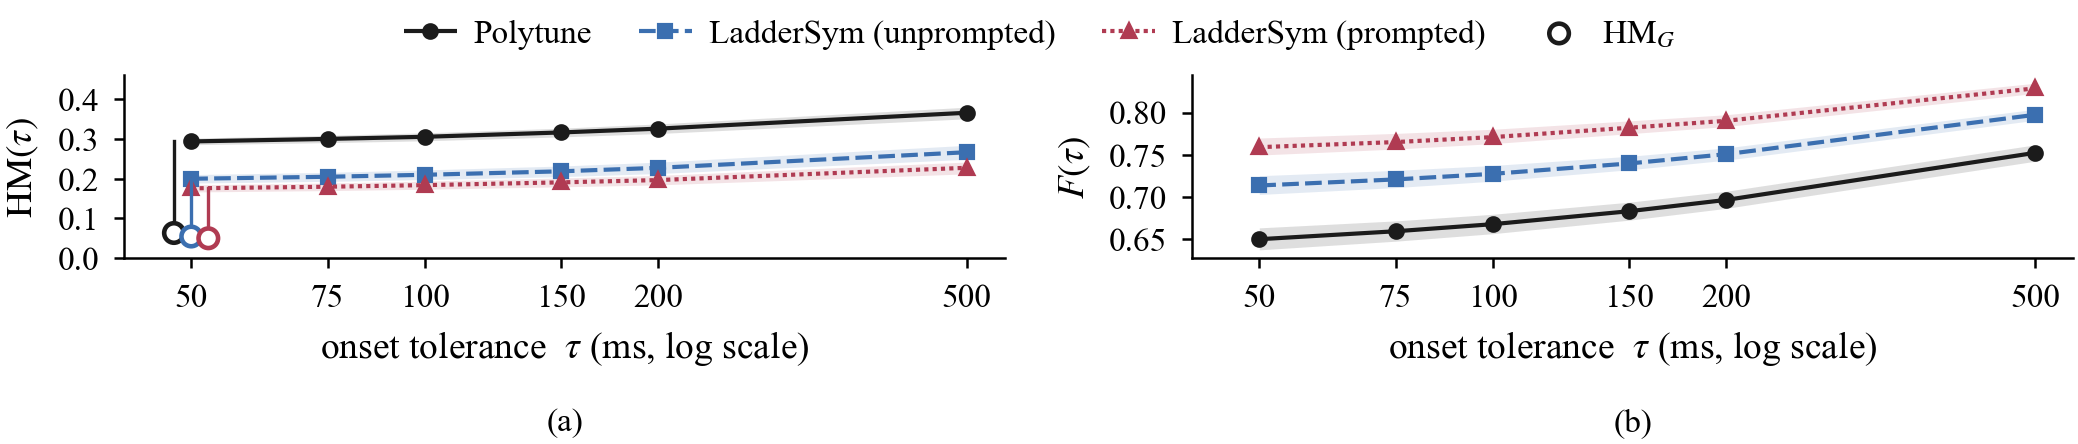
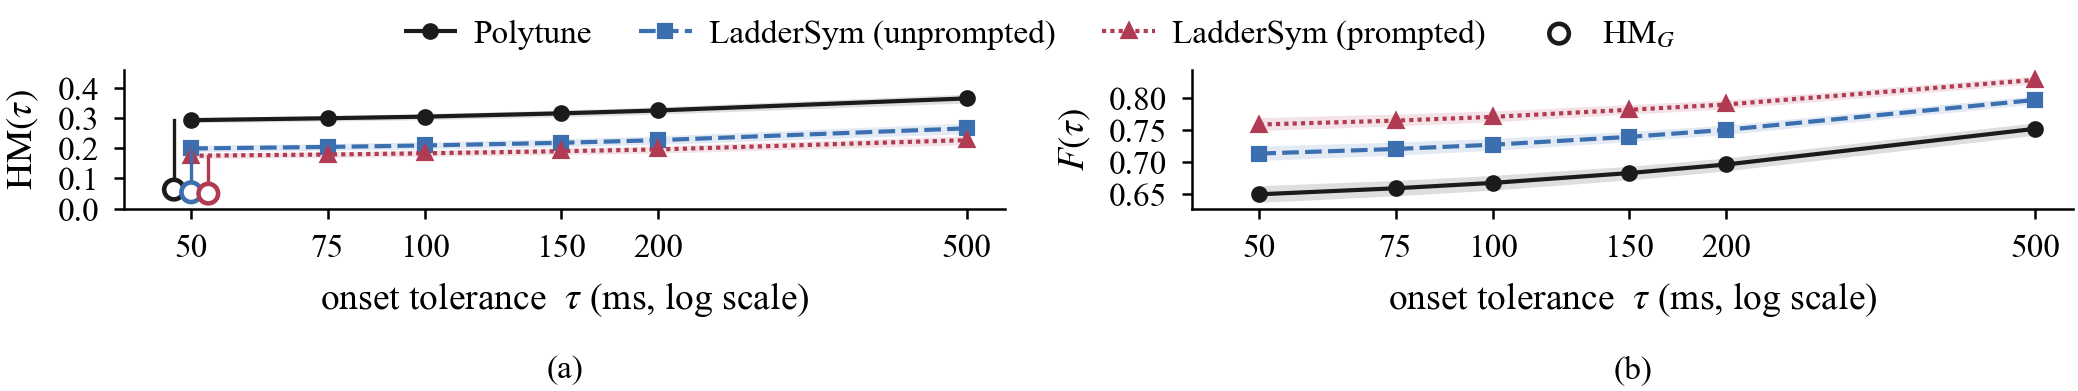
figs + gate: Fig. 2 height, Table I/II captions, gate pins for the round-2 letter
Mirrors the paper's round-2 clarity pass: Fig. 2 at 1.34 in, Table I's
caption names what F1-bar averages, Table II's caption drops the
redundant per-piece note, and the shipped-numbers gate pins follow the
rephrased letter/supplement sentences (prose pins skip when proposal/ is
absent). Oracle CSVs re-synced from the source tree. 92 public checks pass.

diff --git a/experiments/verify_shipped.py b/experiments/verify_shipped.py
@@ -651,10 +651,11 @@ def check_score_filter() -> None:
     hm_f = [r["rf"]["hm"] for r in e]; f_f = [r["rf"]["localization"]["f1"] for r in e]
     if not (hm_f[0] > hm_f[1] > hm_f[2] and f_f[0] < f_f[1] < f_f[2]):
         fail("filtered ordering differs from Table I's")
-    pin("EI drop shares", "removes $%d/%d/%d\\%%$, lifting" % tuple(round(x) for x in drop(ei)))
+    pin("EI drop shares", "removes $%d/%d/%d\\%%$ of missed claims, lifting" % tuple(round(x) for x in drop(ei)))
     pin("EI mean error F1 before/after", "from $%.3f/%.3f/%.3f$ to $%.3f/%.3f/%.3f$ and lowering"
         % (*[r["bs"]["_mean_error_f1"] for r in ei], *[r["fs"]["_mean_error_f1"] for r in ei]))
-    pin("EI filtered HM", "lowering $\\mathrm{HM}$ to $%.3f/%.3f/%.3f$." % tuple(r["rf"]["hm"] for r in ei))
+    pin("EI filtered HM", "lowering raw $\\mathrm{HM}$ from $%.3f/%.3f/%.3f$ to $%.3f/%.3f/%.3f$."
+        % (*[r["rb"]["hm"] for r in ei], *[r["rf"]["hm"] for r in ei]))
     gains = [r["fs"]["missed"]["f1"] - r["bs"]["missed"]["f1"] for r in e]
     pin("conclusion missed-F1 gain", "by $%.2f$ to $%.2f$" % (min(gains), max(gains)))
     pc = os.path.join(HERE, "results", "cluster", "score_filter_paired_ci.json")
@@ -698,7 +699,7 @@ def check_round17_supplement() -> None:
          % (pc[k1]["hm_g"][0], pc[k1]["hm_g"][1], pc[k2]["hm_g"][0], pc[k2]["hm_g"][1]))
     if not (pc[k1]["hm_g"][0] > 0 and pc[k2]["hm_g"][0] > 0):
         fail("paired HM_G intervals no longer exclude zero")
-    spin("dominance guard defined", "the dominance guard, which requires each predicted track's class mapping to be diagonal-dominant against the reference")
+    spin("dominance guard defined", "the dominance guard (a check that each output track carries its own class: the track's class mapping must be diagonal-dominant against the reference)")
     spin("null coverage sentence", "in every test, the observed exceeds all 200 rotations.")
 
 
@@ -928,7 +929,7 @@ def check_letter_prose() -> None:
               "%d{,}%03d/%d{,}%03d=%.3f" % (num_p // 1000, num_p % 1000,
                                             den_p // 1000, den_p % 1000, hm_t[0]))
     assert_in("HM after binning (LadderSym)",
-              "$%.3f$ and $%.3f$ for LadderSym unprompted and prompted" % (hm_t[1], hm_t[2]))
+              "LadderSym unprompted and prompted give $%.3f$ and $%.3f$" % (hm_t[1], hm_t[2]))
     assert_in("HM charging U", "gives $%.3f/%.3f/%.3f$" % tuple(chg))
     assert_in("span endpoints", "$[%.3f,\\,%.3f]$" % (hm_t[0], raw[0]))
     assert_in("unfounded share",
@@ -1054,7 +1055,9 @@ def check_letter_prose() -> None:
     disj = disj and (_iv[0][1] < _iv[2][0] or _iv[2][1] < _iv[0][0])
     if disj:
         ok("uk_ci: |U|/|K| intervals pairwise disjoint, points match adjudication")
-        assert_in_supp("|U|/|K| disjoint clause", "(per-piece intervals disjoint)")
+        assert_in_supp("|U|/|K| disjoint clause",
+                       "(per-piece $|U|/|K|$ intervals $[%.3f,\\,%.3f]/[%.3f,\\,%.3f]/[%.3f,\\,%.3f]$, disjoint)"
+                       % tuple(v for iv in _iv for v in iv))
     else:
         fail("uk_ci intervals no longer pairwise disjoint; prose claims they are")
 
@@ -1300,10 +1303,9 @@ def check_letter_prose() -> None:
     _cp = _load(os.path.join(HERE, "results", "cluster", "maestro_ei_collapse_precision.json"))
     site = [cvei[c]["wrong->wrong"]["manifest_genuine"] / _cp["merges_that_are_substitutions"] for c in ei_cfgs]
     assert_in("EI site-level recall", "i.e.\\ $%.2f/%.2f/%.2f$ of all planted sites" % tuple(site))
-    assert_in("collapse absorption in letter", "flipping the class of $10{,}317$ planted labels shows the collapse absorbing $1{,}112$ of them")
     assert_in("EI genuine contrast",
-              "deleted note in $%.3f/%.3f/%.3f$ of cases, i.e." % tuple(ww))
-    assert_in("EI dominant-cell genuine rate", "where no omitted note exists, the rate is $%.3f/%.3f/%.3f$" % tuple(ew))
+              "deleted note in $%.3f/%.3f/%.3f$ of their merged" % tuple(ww))
+    assert_in("EI dominant-cell genuine rate", "only $%.3f/%.3f/%.3f$ of merged events name one" % tuple(ew))
     hm50, loc50, err50, mc_all = [], [], [], True
     for c in ei_cfgs:
         d = _load(os.path.join(gei, c + "_shipped.json"))
@@ -1353,17 +1355,15 @@ def check_letter_prose() -> None:
     kei = ["A_polytune_maestro_ei", "B_laddersym_maestro_ei_unprompted", "B_laddersym_maestro_ei_prompted"]
     hg = [bei[k]["point"]["hm_g"] for k in kei]; hgc = [bei[k]["ci95"]["hm_g"] for k in kei]
     uf = [100 * bei[k]["point"]["unfounded"] for k in kei]; ufc = [[100 * x for x in bei[k]["ci95"]["unfounded"]] for k in kei]
-    assert_in("EI adjudicated HM_G", "gives $\\mathrm{HM}_G=%.3f/%.3f/%.3f$ there (intervals overlapping)" % tuple(hg))
+    assert_in("EI adjudicated HM_G", "gives $\\mathrm{HM}_G=%.3f/%.3f/%.3f$ there (intervals overlapping, ordering unresolved)" % tuple(hg))
     if not (max(c[0] for c in hgc) <= min(c[1] for c in hgc)):
         fail("EI HM_G intervals do not all overlap; the letter says they do")
     assert_in("EI adjudicated unfounded share", "an unfounded share of $%.1f/%.1f/%.1f\\%%$ (disjoint" % tuple(uf))
     if not (ufc[0][0] > ufc[1][1] and ufc[1][0] > ufc[2][1]):
         fail("EI unfounded intervals are not pairwise disjoint in order")
     assert_in("EI abstract genuine range",
-              "name it %.2f to %.2f of the time"
-              % (min(ww), max(ww)))
-    assert_in("EI conclusion genuine range",
-              "$%.2f$--$%.2f$ of" % (min(ww), max(ww)))
+              "name the omitted note %d to %d percent of the time"
+              % (round(100 * min(ww)), round(100 * max(ww))))
     # MAESTRO-E paired decomposition, derived from the paired artifact
     pa = _load(os.path.join(gil, "paired_prompted_vs_unprompted.json"))
     mono = True
@@ -1454,7 +1454,8 @@ def check_letter_prose() -> None:
                                 f"M2_pitch_{tag}.json"))["stratified"]
         eq = st["overall_off_diagonal"]["equal_pitch"]["fraction"]
         eqs.append(eq * 100); bnd.append(st["hm_observed"] * eq)
-    assert_in("equal-pitch shares", "$%.1f/%.1f/%.1f\\%%$ of off-diagonal and" % tuple(eqs))
+    assert_in("equal-pitch shares", "$%.1f/%.1f/%.1f\\%%$ of off-diagonal pairs join equal pitches" % tuple(eqs))
+    assert_in_supp("equal-pitch shares (supplement)", "$%.1f/%.1f/%.1f\\%%$ of off-diagonal and" % tuple(eqs))
     assert_in("pitch-blind HM bound", "$\\mathrm{HM}\\ge%.3f/%.3f/%.3f$" % tuple(bnd))
     if not (bnd[0] > bnd[1] > bnd[2]):
         fail("pitch-blind bound no longer preserves the ordering; the letter says it does")
@@ -1567,7 +1568,7 @@ def check_letter_prose() -> None:
                    "falls by $%d$--$%d\\%%$, relative, under"
               % (round(min(frac_moved)), round(max(frac_moved))))
     diag = [100 * ap_[st]["diag_equal_pitch_frac"] for st in stems]
-    assert_in("diagonal equal-pitch share", "$%.1f/%.1f/%.1f\\%%$ of diagonal pairs the two matched events have equal" % tuple(diag))
+    assert_in_supp("diagonal equal-pitch share", "$%.1f/%.1f/%.1f\\%%$ of diagonal pairs join equal pitches" % tuple(diag))
     if "larger by construction" in tex:
         fail("'larger by construction' reintroduced; the collapse's sign is not a theorem")
     assert_in("quote location", "simultaneously'' (Fig.~1 of~")

diff --git a/experiments/figs/make_tables.py b/experiments/figs/make_tables.py
@@ -122,7 +122,7 @@ def table_main() -> str:
 \\centering
 \\caption{{Main Results on the MAESTRO-E Test Split ($\\tau=50$\\,\\textup{{ms}},
 $\\epsilon=50$\\,\\textup{{ms}}; Per-Piece Bootstrap 95\\% CIs, $10^3$ Resamples, $n=177$).
-\\emph{{Repl.\\ $\\bar F_1$}}: Mean Error $F_1$ Under the Systems' Protocol
+\\emph{{Repl.\\ $\\bar F_1$}}: Mean of the Missed- and Extra-Class $F_1$ Under the Systems' Protocol
 (Our Replication); $F$: Localization $F_1$ (Sec.~\\ref{{sec:measure}});
 Unfounded: $|U|/|M|$, Claims Naming No Score Note; $\\mathrm{{HM}}$: Raw
 per~\\eqref{{eq:hm}} and Adjudicated $\\mathrm{{HM}}_G$ (Sec.~\\ref{{sec:experiments}})}}
@@ -240,8 +240,7 @@ def table_null() -> str:
     return f"""% AUTO-GENERATED by figs/make_tables.py -- do not edit by hand.
 \\begin{{table}}[!t]
 \\centering
-\\caption{{Circular-Shift Null at $\\tau=50$\\,\\textup{{ms}} ({n_perm} Rotations per
-Piece)}}
+\\caption{{Circular-Shift Null at $\\tau=50$\\,\\textup{{ms}}, {n_perm} Rotations}}
 \\label{{tab:snull}}
 \\footnotesize
 \\begin{{tabular}}{{@{{}}lcccc@{{}}}}

diff --git a/experiments/figs/tab_main.tex b/experiments/figs/tab_main.tex
@@ -3,7 +3,7 @@
 \centering
 \caption{Main Results on the MAESTRO-E Test Split ($\tau=50$\,\textup{ms},
 $\epsilon=50$\,\textup{ms}; Per-Piece Bootstrap 95\% CIs, $10^3$ Resamples, $n=177$).
-\emph{Repl.\ $\bar F_1$}: Mean Error $F_1$ Under the Systems' Protocol
+\emph{Repl.\ $\bar F_1$}: Mean of the Missed- and Extra-Class $F_1$ Under the Systems' Protocol
 (Our Replication); $F$: Localization $F_1$ (Sec.~\ref{sec:measure});
 Unfounded: $|U|/|M|$, Claims Naming No Score Note; $\mathrm{HM}$: Raw
 per~\eqref{eq:hm} and Adjudicated $\mathrm{HM}_G$ (Sec.~\ref{sec:experiments})}

diff --git a/experiments/figs/tab_null.tex b/experiments/figs/tab_null.tex
@@ -1,8 +1,7 @@
 % AUTO-GENERATED by figs/make_tables.py -- do not edit by hand.
 \begin{table}[!t]
 \centering
-\caption{Circular-Shift Null at $\tau=50$\,\textup{ms} (200 Rotations per
-Piece)}
+\caption{Circular-Shift Null at $\tau=50$\,\textup{ms}, 200 Rotations}
 \label{tab:snull}
 \footnotesize
 \begin{tabular}{@{}lcccc@{}}

diff --git a/experiments/figs/fig2_measured.py b/experiments/figs/fig2_measured.py
@@ -90,7 +90,7 @@ def panel_loc(ax) -> None:
 
 
 def main() -> None:
-    fig, axes = plt.subplots(1, 2, figsize=(S.COL_DOUBLE, 1.52))
+    fig, axes = plt.subplots(1, 2, figsize=(S.COL_DOUBLE, 1.34))
     panel_hm(axes[0])
     panel_loc(axes[1])
     # one shared legend row above both panels, outside the axes, 8 pt
